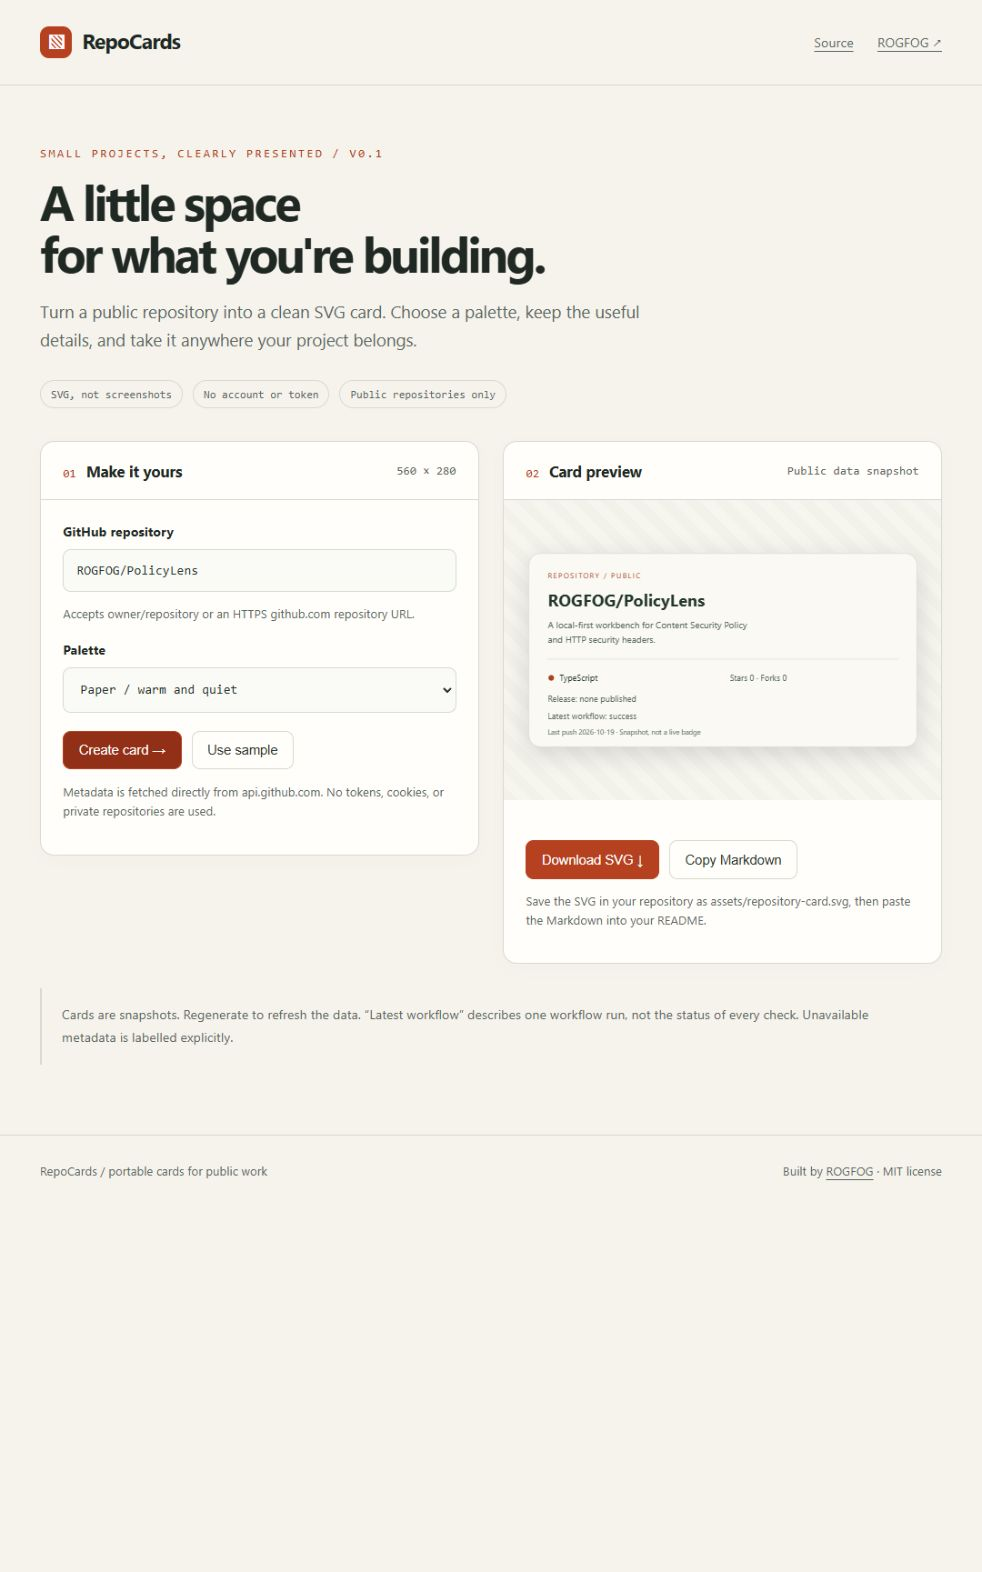
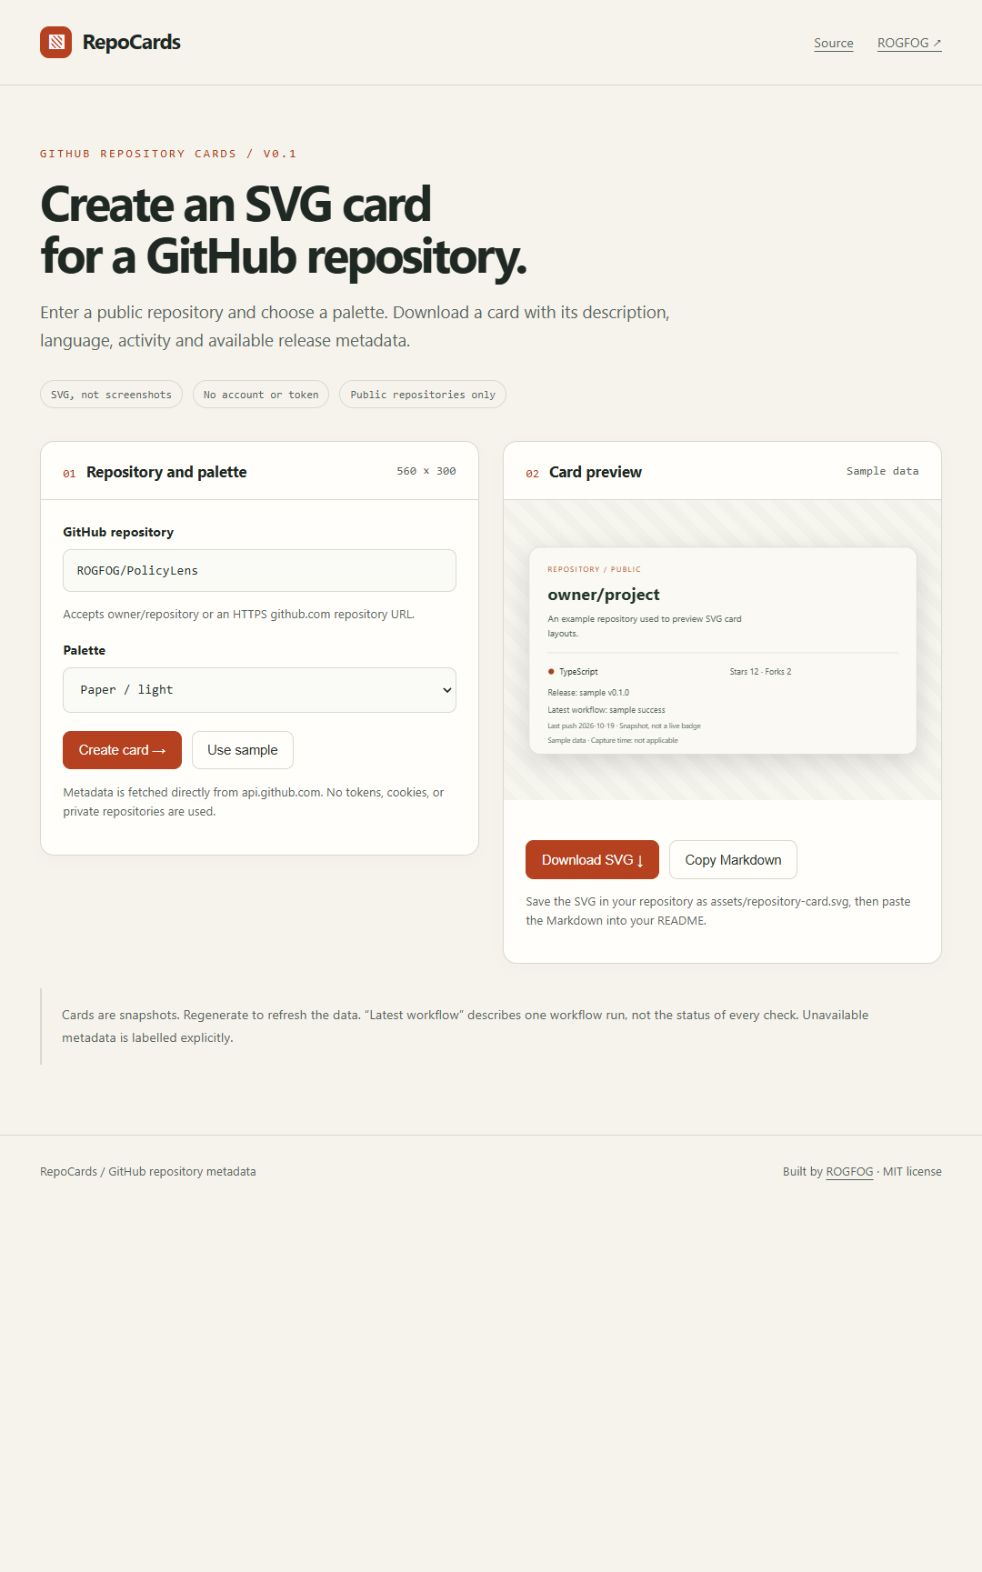
Describe project behavior directly

diff --git a/index.html b/index.html
@@ -1,7 +1,7 @@
 <!doctype html>
-<html lang="en"><head><meta charset="utf-8"><meta name="viewport" content="width=device-width,initial-scale=1"><meta name="description" content="Make clean, portable SVG cards for public GitHub repositories. No account or token required."><title>RepoCards — give your projects a place</title><link rel="stylesheet" href="./styles.css"><script type="module" src="./main.js"></script></head>
+<html lang="en"><head><meta charset="utf-8"><meta name="viewport" content="width=device-width,initial-scale=1"><meta name="description" content="Download SVG cards with public GitHub repository metadata."><title>RepoCards — GitHub repository SVG cards</title><link rel="stylesheet" href="./styles.css"><script type="module" src="./main.js"></script></head>
 <body><header><a class="brand" href="./"><span class="mark">▧</span>RepoCards</a><nav aria-label="Main"><a href="https://github.com/ROGFOG/RepoCards">Source</a><a href="https://github.com/ROGFOG">ROGFOG ↗</a></nav></header>
-<main><p class="eyebrow">Small projects, clearly presented / v0.1</p><h1>A little space<br>for what you're building.</h1><p class="intro">Turn a public repository into a clean SVG card. Choose a palette, keep the useful details, and take it anywhere your project belongs.</p><div class="tags"><span class="tag">SVG, not screenshots</span><span class="tag">No account or token</span><span class="tag">Public repositories only</span></div>
-<div class="grid"><section class="panel"><div class="panel-head"><h2><span class="number">01</span>Make it yours</h2><span class="summary">560 × 300</span></div><form id="generate" class="panel-body"><div class="field"><label for="repository">GitHub repository</label><input id="repository" placeholder="ROGFOG/PolicyLens" value="ROGFOG/PolicyLens" maxlength="200" required autocomplete="off"><p class="hint">Accepts owner/repository or an HTTPS github.com repository URL.</p></div><div class="field"><label for="theme">Palette</label><select id="theme"><option value="paper">Paper / warm and quiet</option><option value="night">Night / deep green</option></select></div><div class="actions"><button class="primary" id="load" type="submit">Create card →</button><button id="sample" type="button">Use sample</button></div><p id="error" class="error" role="alert"></p><p class="hint">Metadata is fetched directly from api.github.com. No tokens, cookies, or private repositories are used.</p></form></section>
+<main><p class="eyebrow">GitHub repository cards / v0.1</p><h1>Create an SVG card<br>for a GitHub repository.</h1><p class="intro">Enter a public repository and choose a palette. Download a card with its description, language, activity and available release metadata.</p><div class="tags"><span class="tag">SVG, not screenshots</span><span class="tag">No account or token</span><span class="tag">Public repositories only</span></div>
+<div class="grid"><section class="panel"><div class="panel-head"><h2><span class="number">01</span>Repository and palette</h2><span class="summary">560 × 300</span></div><form id="generate" class="panel-body"><div class="field"><label for="repository">GitHub repository</label><input id="repository" placeholder="ROGFOG/PolicyLens" value="ROGFOG/PolicyLens" maxlength="200" required autocomplete="off"><p class="hint">Accepts owner/repository or an HTTPS github.com repository URL.</p></div><div class="field"><label for="theme">Palette</label><select id="theme"><option value="paper">Paper / light</option><option value="night">Night / dark</option></select></div><div class="actions"><button class="primary" id="load" type="submit">Create card →</button><button id="sample" type="button">Use sample</button></div><p id="error" class="error" role="alert"></p><p class="hint">Metadata is fetched directly from api.github.com. No tokens, cookies, or private repositories are used.</p></form></section>
 <section class="panel"><div class="panel-head"><h2><span class="number">02</span>Card preview</h2><span id="state" class="summary" aria-live="polite">Sample data</span></div><div id="preview" aria-label="Generated repository card"></div><div class="panel-body"><div class="actions"><button class="primary" id="download" type="button">Download SVG ↓</button><button id="markdown" type="button">Copy Markdown</button></div><p id="copy-status" class="hint" role="status"></p><p class="hint">Save the SVG in your repository as assets/repository-card.svg, then paste the Markdown into your README.</p></div></section></div>
-<p class="notice">Cards are snapshots. Regenerate to refresh the data. “Latest workflow” describes one workflow run, not the status of every check. Unavailable metadata is labelled explicitly.</p></main><footer><span>RepoCards / portable cards for public work</span><span>Built by <a href="https://github.com/ROGFOG">ROGFOG</a> · MIT license</span></footer></body></html>
+<p class="notice">Cards are snapshots. Regenerate to refresh the data. “Latest workflow” describes one workflow run, not the status of every check. Unavailable metadata is labelled explicitly.</p></main><footer><span>RepoCards / GitHub repository metadata</span><span>Built by <a href="https://github.com/ROGFOG">ROGFOG</a> · MIT license</span></footer></body></html>

diff --git a/src/card.ts b/src/card.ts
@@ -72,4 +72,4 @@ export async function fetchCard(input: string, request: typeof fetch = fetch, no
   return { repository, release, workflow, capturedAt: now().toISOString() };
 }
 
-export const sample: CardData = {isSample:true, repository:{full_name:'owner/project', description:'A thoughtful tool for a small, useful problem. Clear documentation, repeatable checks, and room to grow.', language:'TypeScript', stargazers_count:12, forks_count:2, pushed_at:'2026-10-19T00:00:00Z', html_url:'https://github.com/owner/project'}, release:'Release: sample v0.1.0', workflow:'Latest workflow: sample success'};
+export const sample: CardData = {isSample:true, repository:{full_name:'owner/project', description:'An example repository used to preview SVG card layouts.', language:'TypeScript', stargazers_count:12, forks_count:2, pushed_at:'2026-10-19T00:00:00Z', html_url:'https://github.com/owner/project'}, release:'Release: sample v0.1.0', workflow:'Latest workflow: sample success'};

diff --git a/README.md b/README.md
@@ -1,7 +1,8 @@
 # RepoCards
 
-Clean, portable SVG cards for public GitHub repositories. Enter a repository,
-choose Paper or Night, and download a card for a README or project page.
+Enter a public GitHub repository, choose Paper or Night, and download an SVG
+card with its description, language, activity and available release metadata.
+Use the card in a README or project page.
 
 [Open the card studio](https://rogfog.github.io/RepoCards/) · [Design notes, RU](docs/design.ru.md)
 
